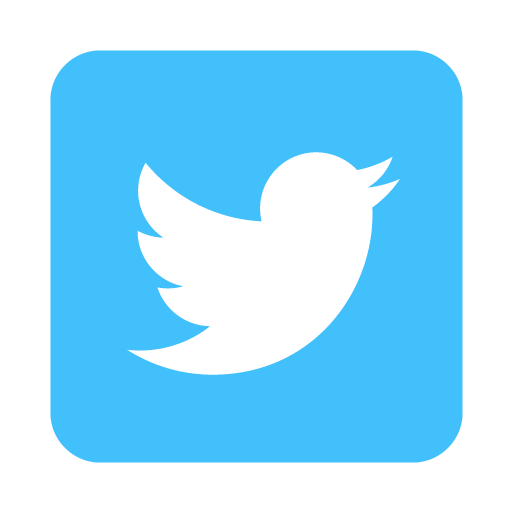
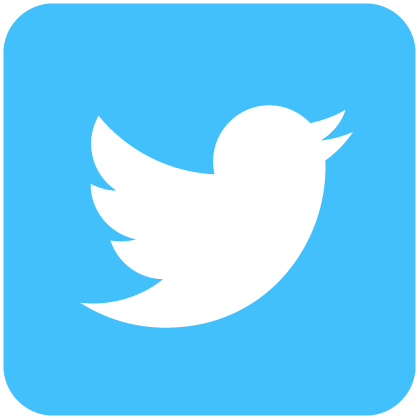
finishing touches

diff --git a/contact.html b/contact.html
@@ -17,10 +17,11 @@
 		<style> img { width: 25%; height: 25%; display: block; margin-left: auto; margin-right: auto } </style>
 		    <p id=""><a href="#"><img src="images/SimonCoteDuchesne.png" alt="Simon Côté-Duchesne"/></a></p>
 		    <ul id="nav">
-		    	<li><a href="index.html">Accueil</a></li>
-		    	<li><a href="realisations.html">Réalisations</a></li>
-		    	<li><a href="curriculumvitae.html">C.V.</a></li>
-		    	<li><a href="contact.html">Contact</a></li>
+		    	<a href="index.html"><li>Accueil</li></a>
+		    	<a href="realisations.html"><li>Réalisations</li></a>
+		    	<a href="curriculumvitae.html"><li>C.V.</li></a>
+		    	<a href="contact.html"><li>Contact</li></a>
+
 		    </ul>
 
 		    <div id="header">
@@ -60,8 +61,8 @@
 				<div class="portfolio-item">
 					<a href="https://www.facebook.com/simon.cote.7374" target="_blank"><img src="images/facebook.png" alt="facebook"></a>
 				</div>				
-				<div class="portfolio-item">
-					<a href="https://twitter.com/Simon_CoteDuch" target="_blank"><img src="images/twitter.png" alt="twitter"></a>
+				<div class="portfolio-item-twitter">
+					<a id="twitter" href="https://twitter.com/Simon_CoteDuch" target="_blank"><img src="images/twitter.png" alt="twitter"></a>
 				</div>
 			</div>
 			<div id="footer">

diff --git a/style.css b/style.css
@@ -18,22 +18,22 @@ body {
 ul#nav {
 	width: 940px; list-style: none; overflow: hidden; margin: -134px auto 25px auto;
 }
-	ul#nav li {
+	ul#nav a {
 		width: 126px; height: 33px; float: left; padding: 13px 0 0 0;
 		background: url(images/nav-bg.png);
 		font-weight: bold; text-align: center; text-transform: uppercase;
 	}
-		ul#nav li:nth-child(1) {
-			margin: 0 60px 0 0;
+		ul#nav a:nth-child(1) {
+			margin: 0 60px 0 0;text-decoration: none
 		}
-		ul#nav li:nth-child(2) {
-			margin: 0 316px 0 0;
+		ul#nav a:nth-child(2) {
+			margin: 0 316px 0 0;text-decoration: none
 		}
-		ul#nav li:nth-child(3) {
-			margin: 0 60px 0 0;
+		ul#nav a:nth-child(3) {
+			margin: 0 60px 0 0;text-decoration: none
 		}
-		ul#nav li:nth-child(4) {
-			margin: 0;
+		ul#nav a:nth-child(4) {
+			margin: 0;text-decoration: none
 		}
 
 		ul#nav li a {
@@ -145,6 +145,14 @@ ul#nav {
 		background: url(images/see-more-bg.png);
 		font-weight: bold; text-align: center; text-transform: uppercase;
 		 text-decoration: none;
+	}
+
+#content .portfolio-item-twitter {
+	width: 240px; padding: 10px; background: #eee; text-align: center;
+	float: left; margin: 0 7px 14px 7px;
+}
+	#content .portfolio-item-twitter img{
+		width: 62px; height: 59px; padding: 0 0 0 0;
 	}
 
 #content .portfolio-item-email {

diff --git a/curriculumvitae.html b/curriculumvitae.html
@@ -17,10 +17,10 @@
 		<style> img { width: 25%; height: 25%; display: block; margin-left: auto; margin-right: auto } </style>
 		    <p id=""><a href="#"><img src="images/SimonCoteDuchesne.png" alt="Simon Côté-Duchesne"/></a></p>
 		    <ul id="nav">
-		    	<li><a href="index.html">Accueil</a></li>
-		    	<li><a href="realisations.html">Réalisations</a></li>
-		    	<li><a href="curriculumvitae.html">C.V.</a></li>
-		    	<li><a href="contact.html">Contact</a></li>
+		    	<a href="index.html"><li>Accueil</li></a>
+		    	<a href="realisations.html"><li>Réalisations</li></a>
+		    	<a href="curriculumvitae.html"><li>C.V.</li></a>
+		    	<a href="contact.html"><li>Contact</li></a>
 		    </ul>
 
 		    <div id="header">

diff --git a/index.html b/index.html
@@ -17,10 +17,10 @@
 		<style> img { width: 25%; height: 25%; display: block; margin-left: auto; margin-right: auto } </style>
 		    <p id=""><a href="#"><img src="images/SimonCoteDuchesne.png" alt="Simon Côté-Duchesne"/></a></p>
 		    <ul id="nav">
-		    	<li><a href="index.html">Accueil</a></li>
-		    	<li><a href="realisations.html">Réalisations</a></li>
-		    	<li><a href="curriculumvitae.html">C.V.</a></li>
-		    	<li><a href="contact.html">Contact</a></li>
+		    	<a href="index.html"><li>Accueil</li></a>
+		    	<a href="realisations.html"><li>Réalisations</li></a>
+		    	<a href="curriculumvitae.html"><li>C.V.</li></a>
+		    	<a href="contact.html"><li>Contact</li></a>
 		    </ul>
 
 		    <div id="header">

diff --git a/realisations.html b/realisations.html
@@ -17,10 +17,10 @@
 		<style> img { width: 25%; height: 25%; display: block; margin-left: auto; margin-right: auto } </style>
 		    <p id=""><a href="#"><img src="images/SimonCoteDuchesne.png" alt="Simon Côté-Duchesne"/></a></p>
 		    <ul id="nav">
-		    	<li><a href="index.html">Accueil</a></li>
-		    	<li><a href="realisations.html">Réalisations</a></li>
-		    	<li><a href="curriculumvitae.html">C.V.</a></li>
-		    	<li><a href="contact.html">Contact</a></li>
+		    	<a href="index.html"><li>Accueil</li></a>
+		    	<a href="realisations.html"><li>Réalisations</li></a>
+		    	<a href="curriculumvitae.html"><li>C.V.</li></a>
+		    	<a href="contact.html"><li>Contact</li></a>
 		    </ul>
 
 		    <div id="header">
